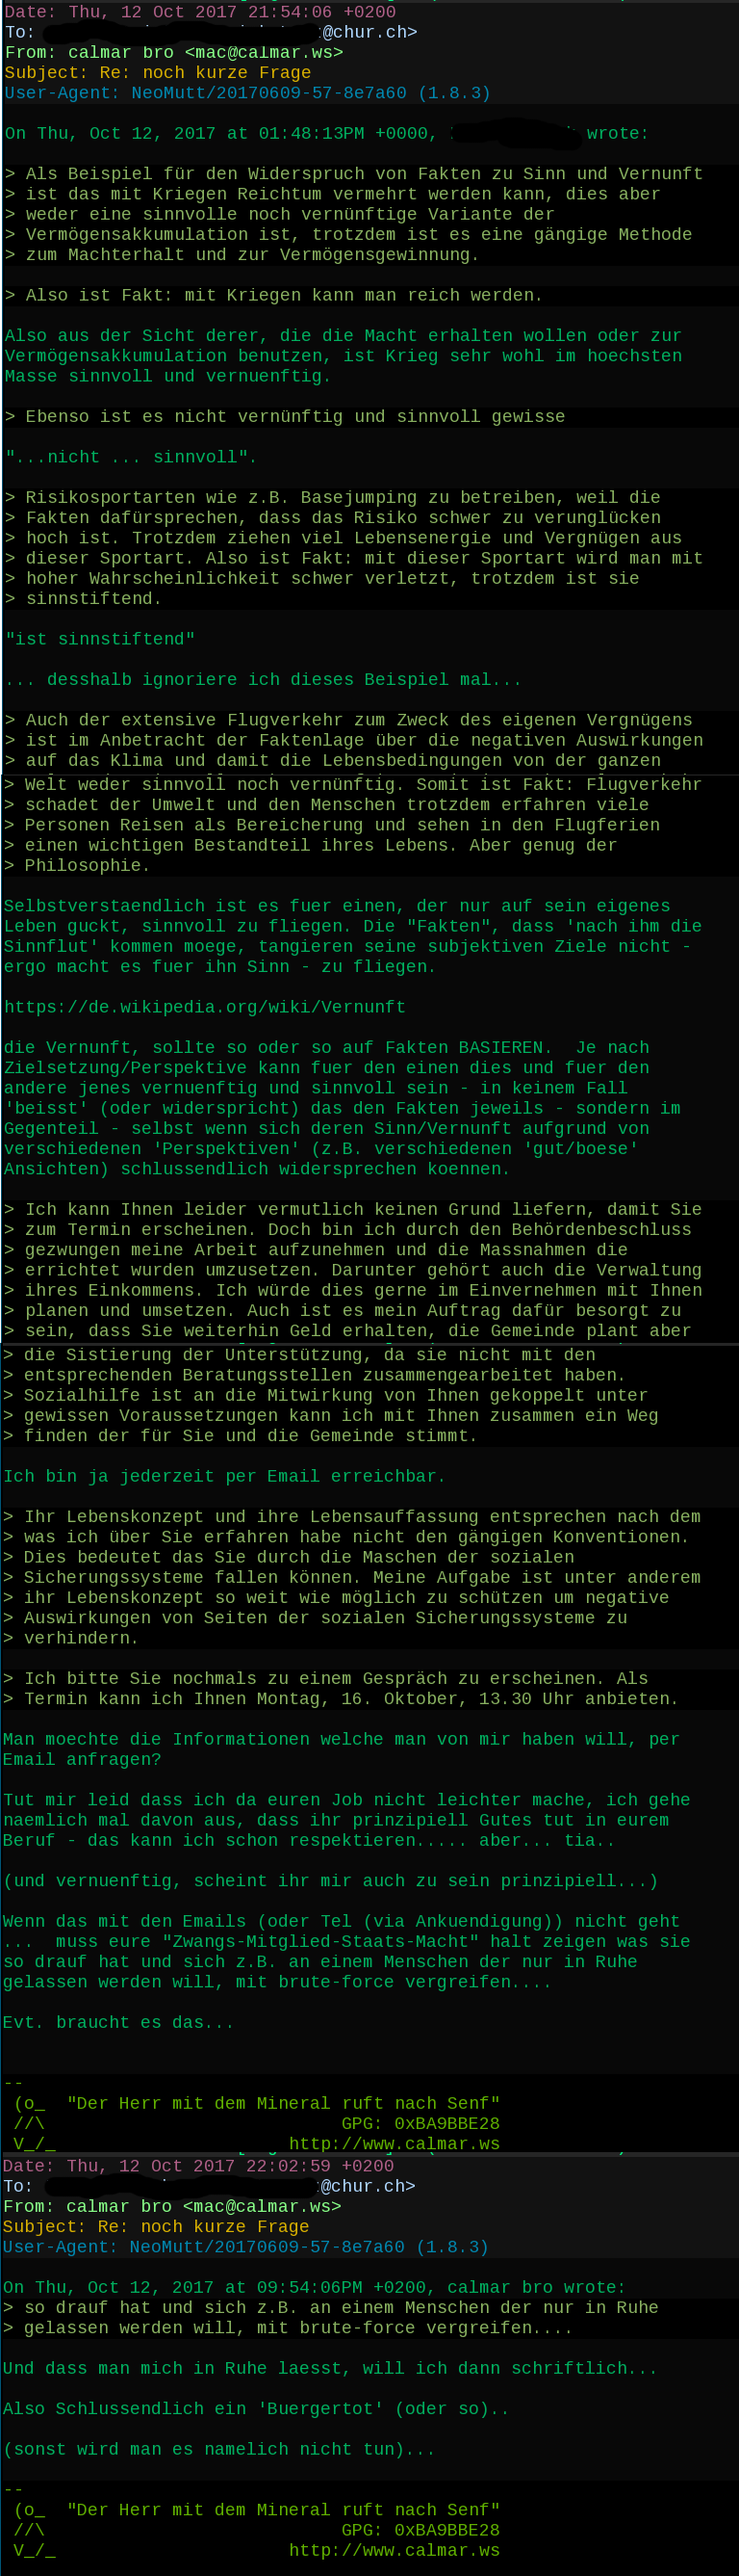
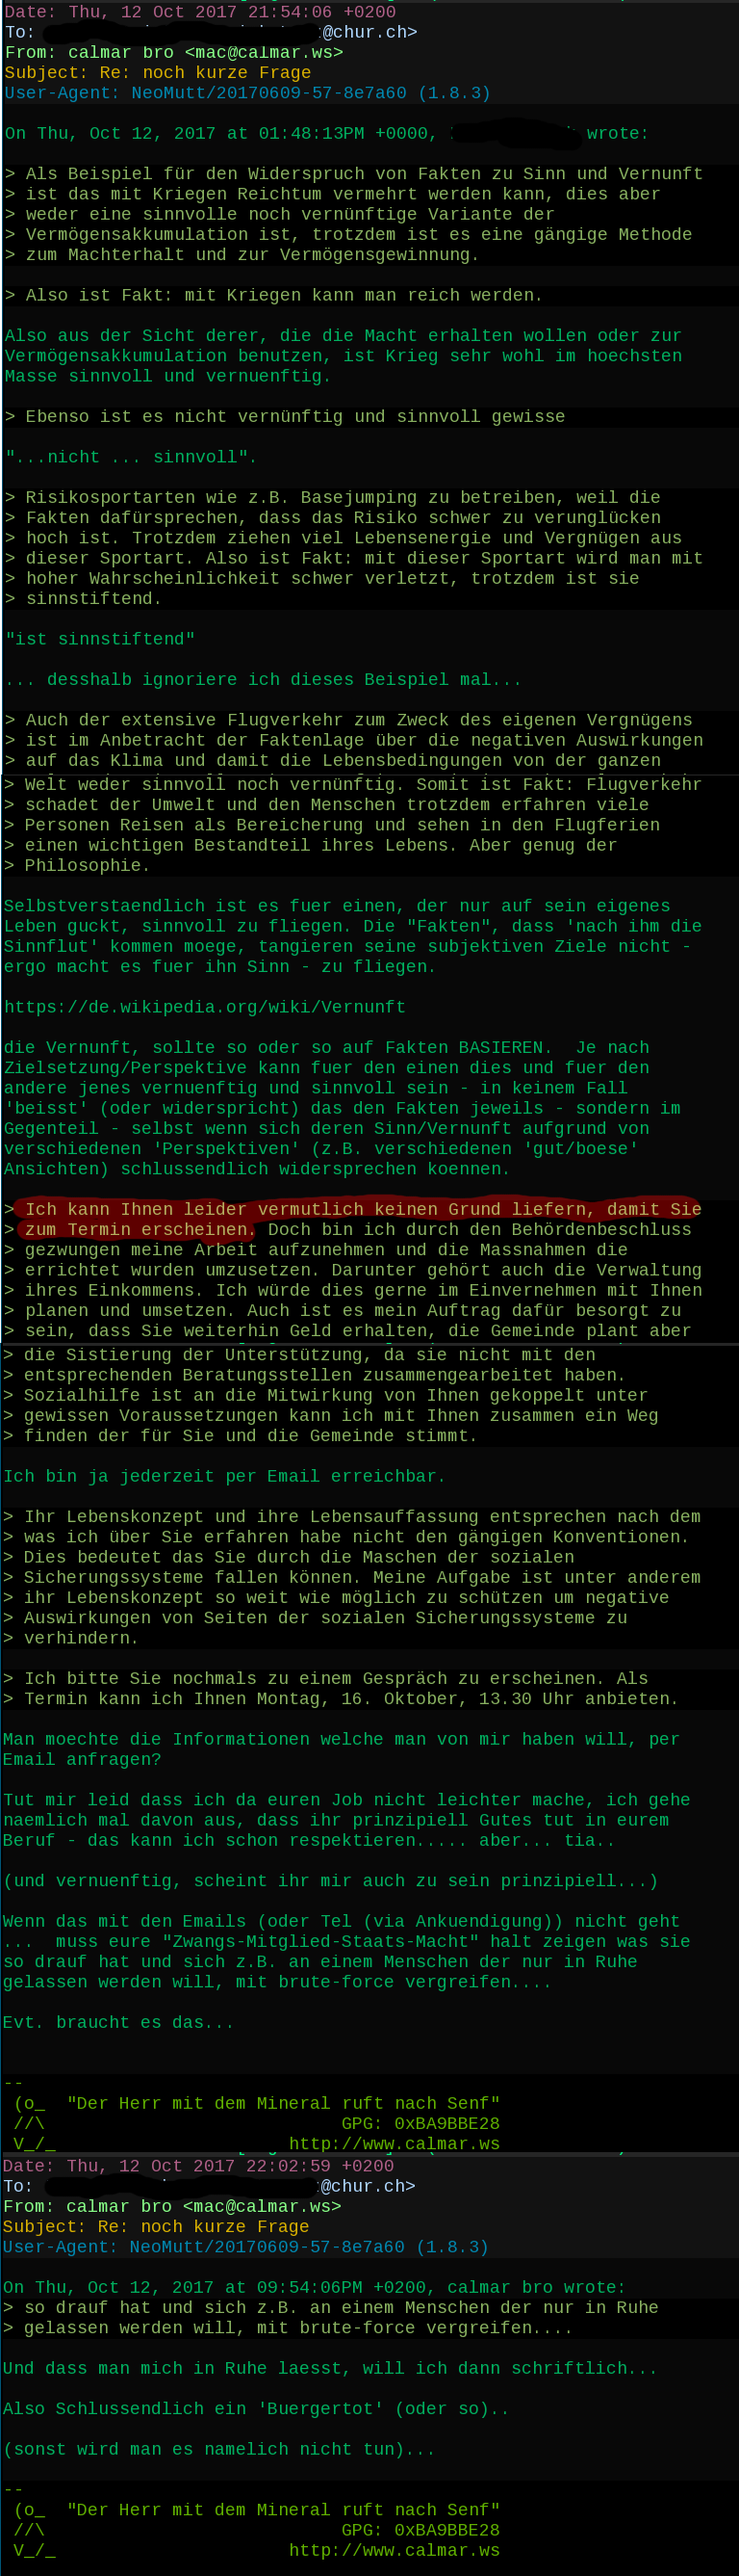
verzerrtes Staatsbild

Changed region(s): [[0.0, 0.4656, 0.9375, 0.4966]]

diff --git a/email-verkehr-patrick.html b/email-verkehr-patrick.html
@@ -100,6 +100,10 @@
   <p><img src=
   "/Menschen-Mafia-Schweiz/email-patrick/Gewalt-keine-Basis-fuer-Dialog-009.png"
   alt="Gewalt ist keine Basis fuer einen Dialog"></p>
+  <h3>Inwifern ein «verzerrtes Staatsbild»</h3>
+  <p><img src=
+  "/Menschen-Mafia-Schweiz/email-patrick/verzerrtes-weltbild-010.png"
+  alt="Verzerrtes Staatbild Begruendung"></p>
   <p><br>
   <br></p>
 </body>
